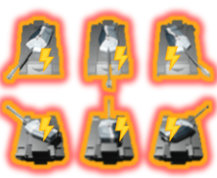
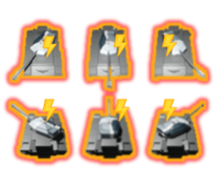
//調整坦克S7技能圖片 //新增勝利過場解鎖圖示

diff --git a/src/menu/Reinforcements.java b/src/menu/Reinforcements.java
@@ -36,8 +36,8 @@ public class Reinforcements extends SkillButton{
         for(int i=0;i<reinforcementsNum;i++) {
             switch (temp.get(Global.random(0, temp.size() - 1)).getType()) {
                 case TANK1:
-                    Actor actor1=new Tank1(400+i*100,800,false);
-//                    actor1.setOnBuff(true); //設成是onBuff狀態-->才可以畫出特效圖
+                    Actor actor1=new Tank1(600+i*100,700,false);
+                    actor1.setOnBuff(true); //設成是onBuff狀態-->才可以畫出特效圖
                     actor1.setReinforcement(true);  //記得將ReinforceMent設成true
                     actors.get(i).setSkillName(this.getSkillName()); //將該角色身上的當前招式名稱更改
                     System.out.println(this.getSkillName());
@@ -45,8 +45,8 @@ public class Reinforcements extends SkillButton{
                     System.out.println("呼叫"+actor1.getType());
                     break;
                 case TANK2:
-                    Actor actor2=new Tank2(600+i*100,800,false);
-//                    actor2.setOnBuff(true); //設成是onBuff狀態-->才可以畫出特效圖
+                    Actor actor2=new Tank2(600+i*100,700,false);
+                    actor2.setOnBuff(true); //設成是onBuff狀態-->才可以畫出特效圖
                     actor2.setReinforcement(true);  //記得將ReinforceMent設成true
                     actors.get(i).setSkillName(this.getSkillName()); //將該角色身上的當前招式名稱更改
                     System.out.println(this.getSkillName());
@@ -54,8 +54,8 @@ public class Reinforcements extends SkillButton{
                     System.out.println("呼叫"+actor2.getType());
                     break;
                 case LASERCAR:
-                    Actor actor3= new LaserCar(600, 800, false);
-//                    actor3.setOnBuff(true); //設成是onBuff狀態-->才可以畫出特效圖
+                    Actor actor3= new LaserCar(600, 700, false);
+                    actor3.setOnBuff(true); //設成是onBuff狀態-->才可以畫出特效圖
                     actor3.setReinforcement(true);  //記得將ReinforceMent設成true
                     actors.get(i).setSkillName(this.getSkillName()); //將該角色身上的當前招式名稱更改
                     System.out.println(this.getSkillName());
@@ -63,8 +63,8 @@ public class Reinforcements extends SkillButton{
                     System.out.println("呼叫"+actor3.getType());
                     break;
                 case ROCKET:
-                    Actor actor4=new Rocket(600+i*100,800,false);
-//                    actor4.setOnBuff(true);
+                    Actor actor4=new Rocket(600+i*100,700,false);
+                    actor4.setOnBuff(true);
                     actor4.setReinforcement(true);
                     actors.get(i).setSkillName(this.getSkillName());
                     System.out.println(this.getSkillName());

diff --git a/src/scene/UserScene.java b/src/scene/UserScene.java
@@ -66,6 +66,7 @@ public class UserScene extends Scene{ //改成單例模式!!!
         enemyLabel=new Label(1200,550,new Style.StyleRect(214,58,true,new BackgroundType.BackgroundImage(ImageController.getInstance().tryGet("/enemy.png"))));
         barImage=ImageController.getInstance().tryGet("/bar.png");
         popupWindow=new PopWindowScene(130,50,1000,600);
+        popupWindow.setCancelable();
         introPopupWindow=new IntroPopupWindow(100,0,1500,1000);
         introPopupWindow.setCancelable();
         introCount=0;
@@ -81,8 +82,8 @@ public class UserScene extends Scene{ //改成單例模式!!!
                 if (state != null) {
                     if (popupWindow.isShow()) {
                         popupWindow.mouseListener().mouseTrig(e, state, trigTime);
-                    } else if (introPopupWindow.isShow()) {
-                        introPopupWindow.mouseListener().mouseTrig(e, state, trigTime);
+                    } else if (introPopupWindow.isShow()) { //show出popWindow時，
+                        introPopupWindow.mouseListener().mouseTrig(e, state, trigTime); //將Popwindow的監聽丟給本地監聽
                     } else {
                         switch (state) {
                             case MOVED: //負責監聽浮現的資訊欄
@@ -165,6 +166,7 @@ public class UserScene extends Scene{ //改成單例模式!!!
                                         }
                                     }
                                     if (secrt.isTouch(e.getX(), e.getY())) {
+                                        popupWindow.sceneBegin();
                                         popupWindow.show();
                                     } else {
                                         popupWindow.hide();
@@ -224,11 +226,8 @@ public class UserScene extends Scene{ //改成單例模式!!!
         g.drawImage(barImage,200,850,null);
         if(popupWindow.isShow()) {
             popupWindow.paint(g);
-            if(popupWindow.isArrowRUseable()){
-                popupWindow.getArrowR().paint(g);
-            }else if(popupWindow.isArrowLUseable()){
-                popupWindow.getArrowL().paint(g);
-            }
+            popupWindow.getArrowR().paint(g);
+            popupWindow.getArrowL().paint(g);
         }
         if(introPopupWindow.isShow() && !introPopupWindow.isPassed()){
             introPopupWindow.paint(g);

diff --git a/src/scene/GameScene.java b/src/scene/GameScene.java
@@ -1,9 +1,7 @@
 package scene;
 
 import controllers.AudioResourceController;
-
 import controllers.ImageController;
-
 import controllers.SceneController;
 import gameobj.*;
 
@@ -30,6 +28,8 @@ public class GameScene extends Scene {
     private BufferedImage image2; //失敗的圖片
     private BufferedImage image3;//倒數10秒圖片
     private BufferedImage image4;// 挑戰成功的圖片
+    private BufferedImage laserUnlock;//解鎖雷射車
+    private BufferedImage rocketUnlock;//解鎖火箭車
 
     private ArrayList<Actor> alliance; //角色陣列
     private ArrayList<Actor> enemys; //敵軍
@@ -39,6 +39,7 @@ public class GameScene extends Scene {
     private Delay delayRound;//回合前20秒的delay
     private Delay delayCount;//10秒後倒數10秒的週期播放
     private Delay delay; //過場秒數
+    private Delay delayUnlock;//勝離圖和解所圖的過場
     private int countNum; //倒數的播放號碼
     private int changePic = 50; //倒數動畫
     private Actor allianceControl;//受旗子控制的我軍
@@ -226,9 +227,13 @@ public class GameScene extends Scene {
             allianceControl.getFlag().paint(g); //旗子可以使用的時候才畫出來
         }
         g.drawImage(image1_1,0,-150,null);
-        if (count > 2 && enemys.size() <= 0) { //挑戰成功條件
+        if (count > 2 && enemys.size() <= 0 && delay.isPlaying()) { //挑戰成功且正在Delay中
             image4=ImageController.getInstance().tryGet("/Victory.png");
             g.drawImage(image4,350,250,null);
+                laserUnlock = ImageController.getInstance().tryGet("/AALaserCar_UnLock.png");
+                rocketUnlock = ImageController.getInstance().tryGet("/AARocket_UnLock.png");
+                g.drawImage(laserUnlock, 100, 250, null);
+                g.drawImage(rocketUnlock, 750, 250, null);
         }
         if (alliance.size() <= 0) { //死光時畫失敗畫面
             image2 = ImageController.getInstance().tryGet("/fail2.png");

diff --git a/src/scene/PopWindowScene.java b/src/scene/PopWindowScene.java
@@ -23,13 +23,14 @@ public class PopWindowScene extends PopupWindow {
 
     public PopWindowScene(int x, int y, int width, int height){
         super(x,y,width,height);
-        enemyButtons= Global.getEnemyButtons();//得到Global的角色按紐
-        arrowR=new Button(1000,380,new Style.StyleRect(150,113,new BackgroundType.BackgroundImage(ImageController.getInstance().tryGet("/arrowR.png"))));
-        arrowL=new Button(300,380,new Style.StyleRect(150,113,new BackgroundType.BackgroundImage(ImageController.getInstance().tryGet("/arrowL.png"))));
     }
 
     @Override
     public void sceneBegin() {
+
+        enemyButtons= Global.getEnemyButtons();//得到Global的角色按紐
+        arrowR=new Button(1000,380,new Style.StyleRect(150,113,new BackgroundType.BackgroundImage(ImageController.getInstance().tryGet("/arrowR.png"))));
+        arrowL=new Button(300,380,new Style.StyleRect(150,113,new BackgroundType.BackgroundImage(ImageController.getInstance().tryGet("/arrowL.png"))));
 
     }
 
@@ -61,7 +62,7 @@ public class PopWindowScene extends PopupWindow {
 
     @Override
     public void paintWindow(Graphics g) {
-        g.setColor(new Color(0xBC0C0CB1, true));
+        g.setColor(new Color(0x7A2B2B34, true));
         g.fillRect(super.getX(), super.getY(), super.getWidth(), super.getHeight());
         for(int i=0;i<enemyButtons.size();i++){
             if(enemyButtons.get(i).left()<900 && enemyButtons.get(i).right()>500) {
@@ -81,8 +82,7 @@ public class PopWindowScene extends PopupWindow {
     }
     @Override
     protected void mouseTrig(MouseEvent e, CommandSolver.MouseState state, long trigTime) {
-        MouseTriggerImpl.mouseTrig(arrowR,e,state);
-        System.out.println(state);
+        System.out.println("進入敵軍資訊監聽");
         if(state!=null){
             switch (state){
                 case CLICKED: //負責監聽升級和購買-->左鍵購買；右鍵取消

diff --git a/src/scene/IntroPopupWindow.java b/src/scene/IntroPopupWindow.java
@@ -27,7 +27,7 @@ public class IntroPopupWindow extends PopupWindow {
 
     @Override
     public void sceneBegin() {
-        button=new Button(750,650,new Style.StyleRect(150,150, //畫出確認按鈕
+        button=new Button(800,650,new Style.StyleRect(150,150, //畫出確認按鈕
                 new BackgroundType.BackgroundImage(ImageController.getInstance().tryGet("/start.png"))));
         image1=ImageController.getInstance().tryGet("/intro1.png");
         image2= ImageController.getInstance().tryGet("/intro2.png");
@@ -41,6 +41,10 @@ public class IntroPopupWindow extends PopupWindow {
 
     public Button getButton() {
         return button;
+    }
+
+    public void setPassed(boolean passed) {
+        isPassed = passed;
     }
 
     public boolean isPassed() {
@@ -69,7 +73,7 @@ public class IntroPopupWindow extends PopupWindow {
                 case CLICKED:
                     if(e.getButton()==1){
                         if(button.isTouch(e.getX(),e.getY())){
-                            isPassed=true;
+                            isPassed=true; //點擊到就變成true
                             SceneController.getInstance().changeScene(GameScene.getInstance());
                         }
                     }

diff --git a/src/utils/Global.java b/src/utils/Global.java
@@ -125,7 +125,7 @@ public class Global {
                     ActorType.ENEMY3,300);
             ActorButton enemy4=new ActorButton(2000,100,new Style.StyleRect(500,500,new BackgroundType.BackgroundImage(ImageController.getInstance().tryGet("/EB-Enemy4.png"))),
                     ActorType.ENEMY4,500);
-            ActorButton boss=new ActorButton(2000,100,new Style.StyleRect(500,500,new BackgroundType.BackgroundImage(ImageController.getInstance().tryGet("/EB-Boss.png"))),
+            ActorButton boss=new ActorButton(2500,100,new Style.StyleRect(500,500,new BackgroundType.BackgroundImage(ImageController.getInstance().tryGet("/EB-Boss.png"))),
                     ActorType.BOSS,500);
 //            enemy1.setUnLocked(true);
 //            enemy4.setUnLocked(true);
@@ -240,7 +240,7 @@ public class Global {
         }
     }
 
-    public static final boolean IS_DEBUG = false;
+    public static final boolean IS_DEBUG = true;
 
     public static void log(String str) {
         if (IS_DEBUG) {

diff --git a/src/gameobj/Tank1.java b/src/gameobj/Tank1.java
@@ -75,8 +75,8 @@ public class Tank1 extends Actor{
                         case ATKSPEEDUP:
                             System.out.println("畫技能7");
                             g.drawImage(image_S7, (int) this.painter().left(), (int) this.painter().top(), (int) this.painter().right(), (int) this.painter().bottom(),
-                                    this.cannonDirection.getValue() % 3 * 75, cannonDirection.getValue() / 3 * 90,
-                                    this.cannonDirection.getValue() % 3 * 75 + 75, cannonDirection.getValue() / 3 * 90 + 90, null);
+                                    this.cannonDirection.getValue() % 3 * 73, cannonDirection.getValue() / 3 * 90,
+                                    this.cannonDirection.getValue() % 3 * 73 + 73, cannonDirection.getValue() / 3 * 90 + 90, null);
                             break;
                     }
                 }

diff --git a/src/gameobj/Rocket.java b/src/gameobj/Rocket.java
@@ -238,8 +238,8 @@ public class Rocket extends Actor{
                             break;
                         case ATKSPEEDUP:
                             g.drawImage(image_S7, (int) this.painter().left(), (int) this.painter().top(), (int) this.painter().right(), (int) this.painter().bottom(),
-                                    this.cannonDirection.getValue() % 3 * 75, cannonDirection.getValue() / 3 * 90,
-                                    this.cannonDirection.getValue() % 3 * 75 + 75, cannonDirection.getValue() / 3 * 90 + 90, null);
+                                    0, 0,
+                                    140, 180, null);
                             break;
                     }
                 }
